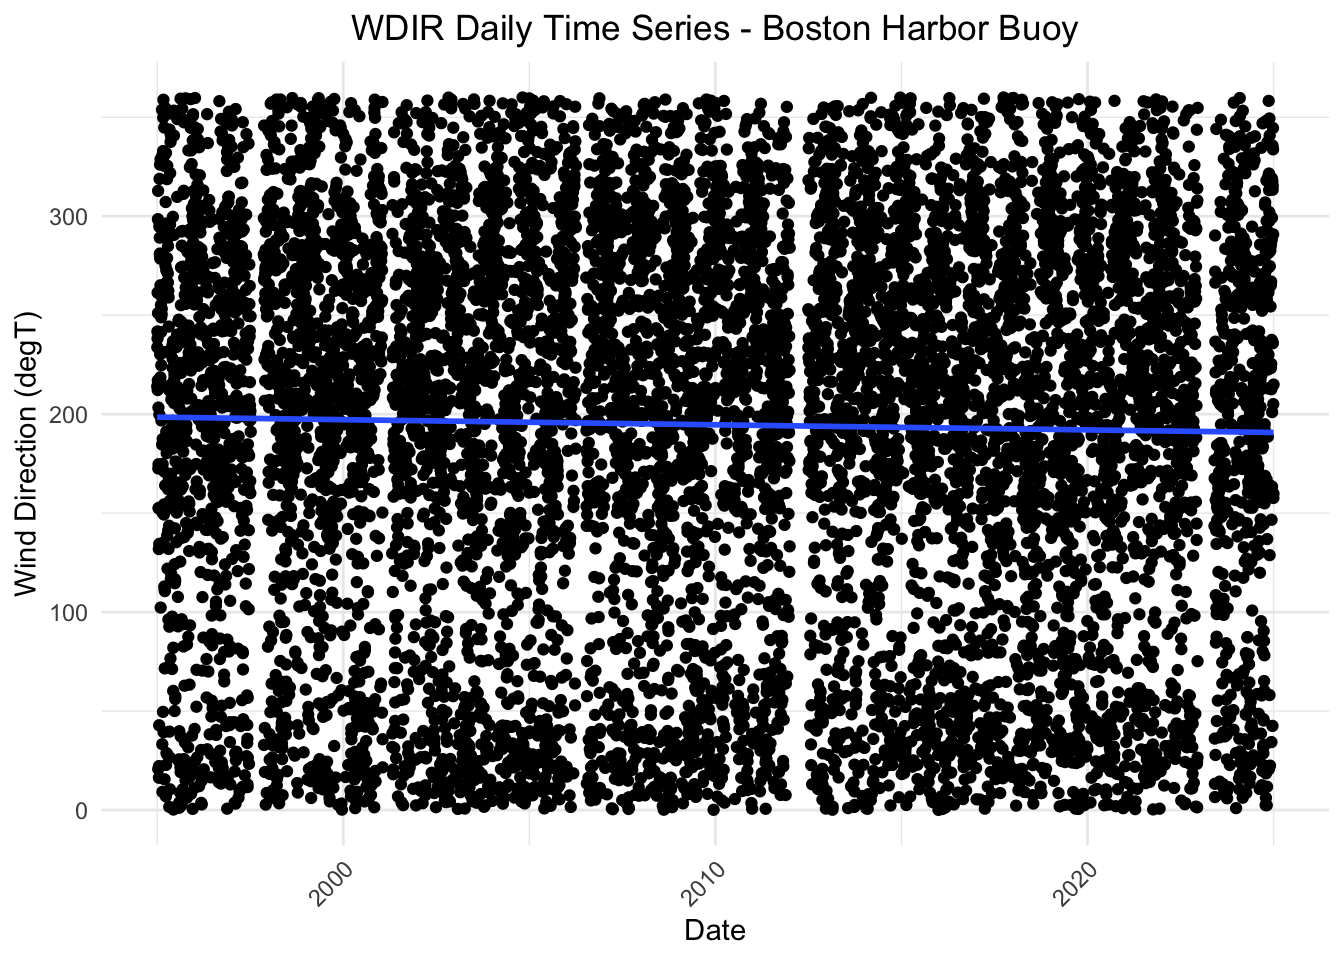
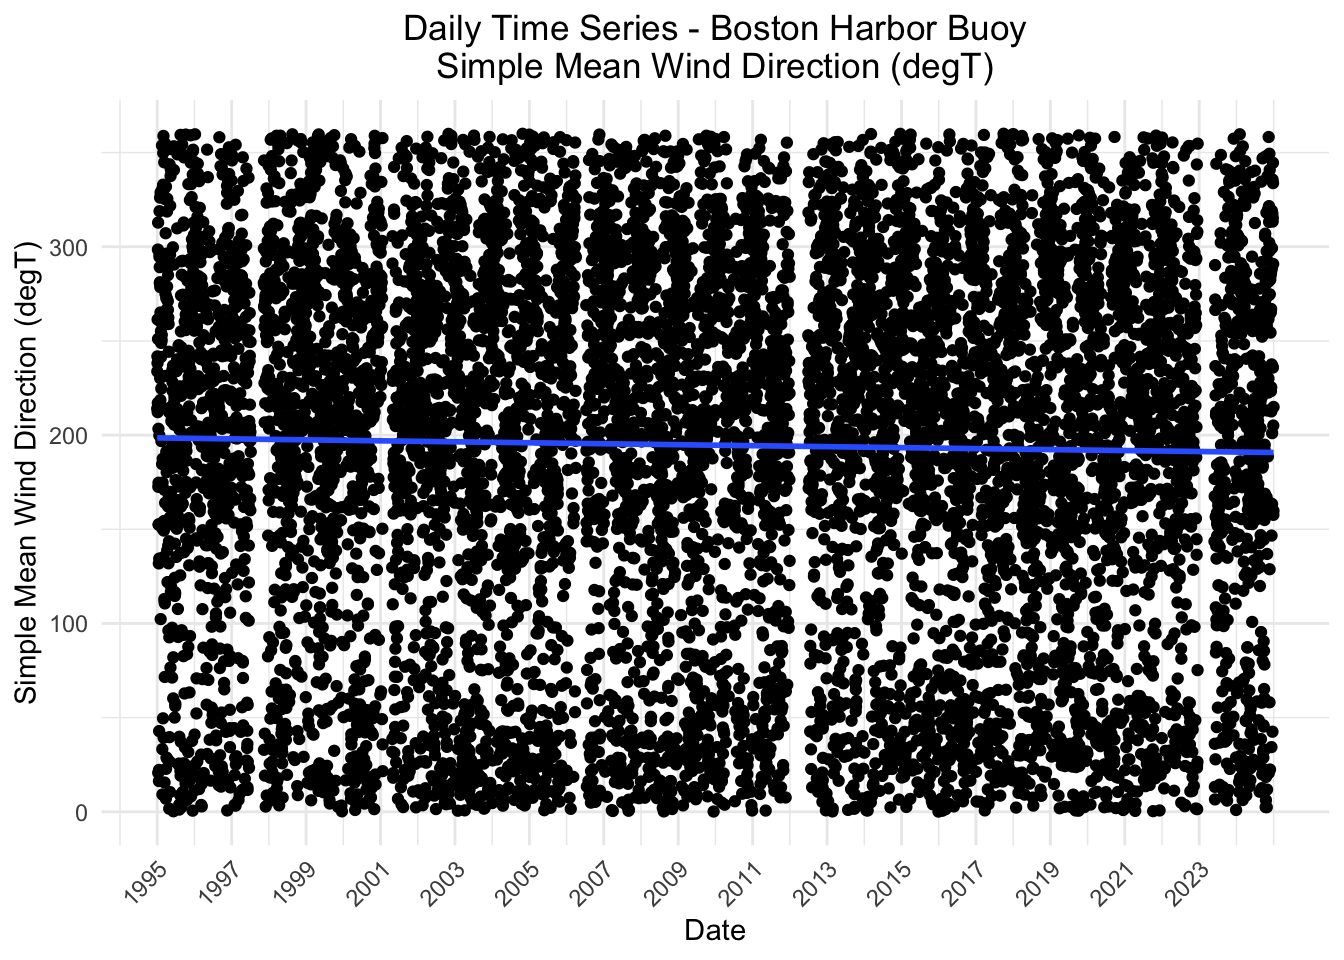
Update plots and plot simple (non-circular) mean wind direction for DKP comparison

diff --git a/quarto_docs/buoy_44013_NDBC.html b/quarto_docs/buoy_44013_NDBC.html
@@ -276,13 +276,13 @@ pre > code.sourceCode > span > a:first-child::before { text-decoration: underlin
 <span id="cb5-7"><a href="#cb5-7" aria-hidden="true" tabindex="-1"></a>                      <span class="st">"ATMP"</span>,<span class="st">"WTMP"</span>, <span class="st">"DEWP"</span>, <span class="st">"VIS"</span>,<span class="st">"TIDE"</span>)</span>
 <span id="cb5-8"><a href="#cb5-8" aria-hidden="true" tabindex="-1"></a>variables <span class="ot">&lt;-</span> <span class="fu">c</span>(angular_variables, scalar_variables)</span>
 <span id="cb5-9"><a href="#cb5-9" aria-hidden="true" tabindex="-1"></a>variables_meta <span class="ot">&lt;-</span> <span class="fu">list</span>(</span>
-<span id="cb5-10"><a href="#cb5-10" aria-hidden="true" tabindex="-1"></a>  <span class="at">WDIR =</span> <span class="st">"Wind Direction (degT)"</span>,</span>
+<span id="cb5-10"><a href="#cb5-10" aria-hidden="true" tabindex="-1"></a>  <span class="at">WDIR =</span> <span class="st">"Circular Mean Wind Direction (degT)"</span>,</span>
 <span id="cb5-11"><a href="#cb5-11" aria-hidden="true" tabindex="-1"></a>  <span class="at">WSPD =</span> <span class="st">"Wind speed (m/s)"</span>,</span>
 <span id="cb5-12"><a href="#cb5-12" aria-hidden="true" tabindex="-1"></a>  <span class="at">GST   =</span> <span class="st">"Peak 5 or 8 second gust speed (m/s)"</span>,</span>
 <span id="cb5-13"><a href="#cb5-13" aria-hidden="true" tabindex="-1"></a>  <span class="at">WVHT =</span> <span class="st">"Significant wave height (meters)"</span>,</span>
 <span id="cb5-14"><a href="#cb5-14" aria-hidden="true" tabindex="-1"></a>  <span class="at">DPD   =</span> <span class="st">"Dominant wave period (seconds)"</span>,</span>
 <span id="cb5-15"><a href="#cb5-15" aria-hidden="true" tabindex="-1"></a>  <span class="at">APD   =</span> <span class="st">"Average wave period (seconds)"</span>,</span>
-<span id="cb5-16"><a href="#cb5-16" aria-hidden="true" tabindex="-1"></a>  <span class="at">MWD   =</span> <span class="st">"Wave dir at dominant period (degT)"</span>,</span>
+<span id="cb5-16"><a href="#cb5-16" aria-hidden="true" tabindex="-1"></a>  <span class="at">MWD   =</span> <span class="st">"Wave direction at dominant period (degT)"</span>,</span>
 <span id="cb5-17"><a href="#cb5-17" aria-hidden="true" tabindex="-1"></a>  <span class="at">PRES =</span> <span class="st">"Sea level pressure (hPa)"</span>,</span>
 <span id="cb5-18"><a href="#cb5-18" aria-hidden="true" tabindex="-1"></a>  <span class="at">ATMP =</span> <span class="st">"Air temperature (degC)"</span>,</span>
 <span id="cb5-19"><a href="#cb5-19" aria-hidden="true" tabindex="-1"></a>  <span class="at">WTMP =</span> <span class="st">"Sea surface temperature (degC)"</span>,</span>
@@ -302,29 +302,40 @@ pre > code.sourceCode > span > a:first-child::before { text-decoration: underlin
 <span id="cb5-33"><a href="#cb5-33" aria-hidden="true" tabindex="-1"></a>               circular<span class="sc">::</span><span class="fu">circular</span>(.x, <span class="at">units =</span> <span class="st">"degrees"</span>, <span class="at">modulo =</span> <span class="st">"2pi"</span>),</span>
 <span id="cb5-34"><a href="#cb5-34" aria-hidden="true" tabindex="-1"></a>               <span class="at">na.rm =</span> <span class="cn">TRUE</span>))</span>
 <span id="cb5-35"><a href="#cb5-35" aria-hidden="true" tabindex="-1"></a>    ),</span>
-<span id="cb5-36"><a href="#cb5-36" aria-hidden="true" tabindex="-1"></a>    <span class="at">.groups =</span> <span class="st">"drop"</span></span>
-<span id="cb5-37"><a href="#cb5-37" aria-hidden="true" tabindex="-1"></a>  ) <span class="sc">|&gt;</span> </span>
-<span id="cb5-38"><a href="#cb5-38" aria-hidden="true" tabindex="-1"></a>  <span class="fu">mutate</span>(<span class="at">date =</span> <span class="fu">make_date</span>(YYYY, MM, DD)) <span class="sc">|&gt;</span> </span>
-<span id="cb5-39"><a href="#cb5-39" aria-hidden="true" tabindex="-1"></a>  <span class="fu">relocate</span>(WDIR, <span class="at">.before =</span> WSPD) <span class="sc">|&gt;</span> </span>
-<span id="cb5-40"><a href="#cb5-40" aria-hidden="true" tabindex="-1"></a>  <span class="fu">relocate</span>(MWD, <span class="at">.before =</span> ATMP) <span class="sc">|&gt;</span> </span>
-<span id="cb5-41"><a href="#cb5-41" aria-hidden="true" tabindex="-1"></a>  <span class="fu">relocate</span>(date, <span class="at">.before =</span> YYYY)</span>
-<span id="cb5-42"><a href="#cb5-42" aria-hidden="true" tabindex="-1"></a>  </span>
-<span id="cb5-43"><a href="#cb5-43" aria-hidden="true" tabindex="-1"></a></span>
-<span id="cb5-44"><a href="#cb5-44" aria-hidden="true" tabindex="-1"></a></span>
-<span id="cb5-45"><a href="#cb5-45" aria-hidden="true" tabindex="-1"></a><span class="co"># Plot daily mean values for each variable</span></span>
-<span id="cb5-46"><a href="#cb5-46" aria-hidden="true" tabindex="-1"></a><span class="cf">for</span> (var <span class="cf">in</span> variables) {</span>
-<span id="cb5-47"><a href="#cb5-47" aria-hidden="true" tabindex="-1"></a>  p <span class="ot">&lt;-</span> <span class="fu">ggplot</span>(buoy_data_daily,</span>
-<span id="cb5-48"><a href="#cb5-48" aria-hidden="true" tabindex="-1"></a>              <span class="fu">aes</span>(<span class="at">x =</span> date,</span>
-<span id="cb5-49"><a href="#cb5-49" aria-hidden="true" tabindex="-1"></a>                  <span class="at">y =</span> .data[[var]])) <span class="sc">+</span></span>
-<span id="cb5-50"><a href="#cb5-50" aria-hidden="true" tabindex="-1"></a>    <span class="fu">geom_point</span>() <span class="sc">+</span></span>
-<span id="cb5-51"><a href="#cb5-51" aria-hidden="true" tabindex="-1"></a>    <span class="fu">geom_smooth</span>(<span class="at">method =</span> <span class="st">"lm"</span>, <span class="at">se =</span> <span class="cn">FALSE</span>) <span class="sc">+</span></span>
-<span id="cb5-52"><a href="#cb5-52" aria-hidden="true" tabindex="-1"></a>    <span class="fu">labs</span>(<span class="at">x =</span> <span class="st">"Date"</span>,</span>
-<span id="cb5-53"><a href="#cb5-53" aria-hidden="true" tabindex="-1"></a>         <span class="at">y =</span> variables_meta[[var]],</span>
-<span id="cb5-54"><a href="#cb5-54" aria-hidden="true" tabindex="-1"></a>         <span class="at">title =</span> <span class="fu">paste</span>(var, <span class="st">"Daily Time Series - Boston Harbor Buoy"</span>)) <span class="sc">+</span></span>
-<span id="cb5-55"><a href="#cb5-55" aria-hidden="true" tabindex="-1"></a>    <span class="fu">scale_color_brewer</span>(<span class="at">palette =</span> <span class="st">"Set2"</span>)</span>
-<span id="cb5-56"><a href="#cb5-56" aria-hidden="true" tabindex="-1"></a>  </span>
-<span id="cb5-57"><a href="#cb5-57" aria-hidden="true" tabindex="-1"></a>  <span class="fu">print</span>(p)</span>
-<span id="cb5-58"><a href="#cb5-58" aria-hidden="true" tabindex="-1"></a>}</span></code><button title="Copy to Clipboard" class="code-copy-button"><i class="bi"></i></button></pre></div>
+<span id="cb5-36"><a href="#cb5-36" aria-hidden="true" tabindex="-1"></a>    <span class="co"># also calculate a simple, non-circular mean for wind direction, for comparison to DKP analysis</span></span>
+<span id="cb5-37"><a href="#cb5-37" aria-hidden="true" tabindex="-1"></a>    <span class="at">WDIR_simple =</span> <span class="fu">mean</span>(WDIR),</span>
+<span id="cb5-38"><a href="#cb5-38" aria-hidden="true" tabindex="-1"></a>    <span class="at">.groups =</span> <span class="st">"drop"</span></span>
+<span id="cb5-39"><a href="#cb5-39" aria-hidden="true" tabindex="-1"></a>  ) <span class="sc">|&gt;</span> </span>
+<span id="cb5-40"><a href="#cb5-40" aria-hidden="true" tabindex="-1"></a>  <span class="fu">mutate</span>(<span class="at">date =</span> <span class="fu">make_date</span>(YYYY, MM, DD)) <span class="sc">|&gt;</span> </span>
+<span id="cb5-41"><a href="#cb5-41" aria-hidden="true" tabindex="-1"></a>  <span class="fu">relocate</span>(WDIR, <span class="at">.before =</span> WSPD) <span class="sc">|&gt;</span> </span>
+<span id="cb5-42"><a href="#cb5-42" aria-hidden="true" tabindex="-1"></a>  <span class="fu">relocate</span>(WDIR_simple, <span class="at">.after =</span> WDIR) <span class="sc">|&gt;</span> </span>
+<span id="cb5-43"><a href="#cb5-43" aria-hidden="true" tabindex="-1"></a>  <span class="fu">relocate</span>(MWD, <span class="at">.before =</span> ATMP) <span class="sc">|&gt;</span> </span>
+<span id="cb5-44"><a href="#cb5-44" aria-hidden="true" tabindex="-1"></a>  <span class="fu">relocate</span>(date, <span class="at">.before =</span> YYYY)</span>
+<span id="cb5-45"><a href="#cb5-45" aria-hidden="true" tabindex="-1"></a>  </span>
+<span id="cb5-46"><a href="#cb5-46" aria-hidden="true" tabindex="-1"></a><span class="co"># Update variables</span></span>
+<span id="cb5-47"><a href="#cb5-47" aria-hidden="true" tabindex="-1"></a>  scalar_variables <span class="ot">&lt;-</span> <span class="fu">c</span>(<span class="st">"WDIR_simple"</span>, scalar_variables)</span>
+<span id="cb5-48"><a href="#cb5-48" aria-hidden="true" tabindex="-1"></a>  variables <span class="ot">&lt;-</span> <span class="fu">c</span>(<span class="st">"WDIR_simple"</span>, variables)</span>
+<span id="cb5-49"><a href="#cb5-49" aria-hidden="true" tabindex="-1"></a>  variables_meta <span class="ot">&lt;-</span> <span class="fu">c</span>(variables_meta, <span class="at">WDIR_simple =</span> <span class="st">"Simple Mean Wind Direction (degT)"</span>)</span>
+<span id="cb5-50"><a href="#cb5-50" aria-hidden="true" tabindex="-1"></a>  </span>
+<span id="cb5-51"><a href="#cb5-51" aria-hidden="true" tabindex="-1"></a></span>
+<span id="cb5-52"><a href="#cb5-52" aria-hidden="true" tabindex="-1"></a><span class="co"># Plot daily mean values for each variable</span></span>
+<span id="cb5-53"><a href="#cb5-53" aria-hidden="true" tabindex="-1"></a><span class="cf">for</span> (var <span class="cf">in</span> variables) {</span>
+<span id="cb5-54"><a href="#cb5-54" aria-hidden="true" tabindex="-1"></a>  p <span class="ot">&lt;-</span> <span class="fu">ggplot</span>(buoy_data_daily,</span>
+<span id="cb5-55"><a href="#cb5-55" aria-hidden="true" tabindex="-1"></a>              <span class="fu">aes</span>(<span class="at">x =</span> date,</span>
+<span id="cb5-56"><a href="#cb5-56" aria-hidden="true" tabindex="-1"></a>                  <span class="at">y =</span> .data[[var]])) <span class="sc">+</span></span>
+<span id="cb5-57"><a href="#cb5-57" aria-hidden="true" tabindex="-1"></a>    <span class="fu">geom_point</span>() <span class="sc">+</span></span>
+<span id="cb5-58"><a href="#cb5-58" aria-hidden="true" tabindex="-1"></a>    <span class="fu">geom_smooth</span>(<span class="at">method =</span> <span class="st">"lm"</span>, <span class="at">se =</span> <span class="cn">FALSE</span>) <span class="sc">+</span></span>
+<span id="cb5-59"><a href="#cb5-59" aria-hidden="true" tabindex="-1"></a>    <span class="fu">labs</span>(<span class="at">x =</span> <span class="st">"Date"</span>,</span>
+<span id="cb5-60"><a href="#cb5-60" aria-hidden="true" tabindex="-1"></a>         <span class="at">y =</span> variables_meta[[var]],</span>
+<span id="cb5-61"><a href="#cb5-61" aria-hidden="true" tabindex="-1"></a>         <span class="at">title =</span> <span class="fu">paste</span>(<span class="st">"Daily Time Series - Boston Harbor Buoy"</span>,</span>
+<span id="cb5-62"><a href="#cb5-62" aria-hidden="true" tabindex="-1"></a>                       variables_meta[[var]], <span class="at">sep =</span> <span class="st">"</span><span class="sc">\n</span><span class="st">"</span>)) <span class="sc">+</span></span>
+<span id="cb5-63"><a href="#cb5-63" aria-hidden="true" tabindex="-1"></a>    <span class="fu">scale_color_brewer</span>(<span class="at">palette =</span> <span class="st">"Set2"</span>) <span class="sc">+</span></span>
+<span id="cb5-64"><a href="#cb5-64" aria-hidden="true" tabindex="-1"></a>    <span class="fu">scale_x_date</span>(</span>
+<span id="cb5-65"><a href="#cb5-65" aria-hidden="true" tabindex="-1"></a>      <span class="at">breaks =</span> <span class="fu">seq</span>(<span class="fu">min</span>(buoy_data_daily<span class="sc">$</span>date), <span class="fu">max</span>(buoy_data_daily<span class="sc">$</span>date), <span class="at">by =</span> <span class="st">"2 years"</span>),</span>
+<span id="cb5-66"><a href="#cb5-66" aria-hidden="true" tabindex="-1"></a>      <span class="at">date_labels =</span> <span class="st">"%Y"</span>)</span>
+<span id="cb5-67"><a href="#cb5-67" aria-hidden="true" tabindex="-1"></a>  </span>
+<span id="cb5-68"><a href="#cb5-68" aria-hidden="true" tabindex="-1"></a>  <span class="fu">print</span>(p)</span>
+<span id="cb5-69"><a href="#cb5-69" aria-hidden="true" tabindex="-1"></a>}</span></code><button title="Copy to Clipboard" class="code-copy-button"><i class="bi"></i></button></pre></div>
 </details>
 <div class="cell-output-display">
 <div>
@@ -417,6 +428,13 @@ pre > code.sourceCode > span > a:first-child::before { text-decoration: underlin
 </figure>
 </div>
 </div>
+<div class="cell-output-display">
+<div>
+<figure class="figure">
+<p><img src="buoy_44013_NDBC_files/figure-html/Calculate%20&amp;%20Plot%20Daily%20and%20Annual%20Means-14.png" class="img-fluid figure-img" width="672"></p>
+</figure>
+</div>
+</div>
 <details open="" class="code-fold">
 <summary>Code</summary>
 <div class="sourceCode cell-code" id="cb6"><pre class="sourceCode r code-with-copy"><code class="sourceCode r"><span id="cb6-1"><a href="#cb6-1" aria-hidden="true" tabindex="-1"></a><span class="co"># Calculate annual mean for all variables</span></span>
@@ -427,7 +445,7 @@ pre > code.sourceCode > span > a:first-child::before { text-decoration: underlin
 <span id="cb6-6"><a href="#cb6-6" aria-hidden="true" tabindex="-1"></a><span class="co">#   summarize(count_obs = n())</span></span>
 <span id="cb6-7"><a href="#cb6-7" aria-hidden="true" tabindex="-1"></a><span class="co"># 1997 and 2012 are missing large time periods of data</span></span>
 <span id="cb6-8"><a href="#cb6-8" aria-hidden="true" tabindex="-1"></a></span>
-<span id="cb6-9"><a href="#cb6-9" aria-hidden="true" tabindex="-1"></a></span>
+<span id="cb6-9"><a href="#cb6-9" aria-hidden="true" tabindex="-1"></a>  </span>
 <span id="cb6-10"><a href="#cb6-10" aria-hidden="true" tabindex="-1"></a>buoy_data_annual <span class="ot">&lt;-</span> buoy_data_daily <span class="sc">|&gt;</span> </span>
 <span id="cb6-11"><a href="#cb6-11" aria-hidden="true" tabindex="-1"></a>  <span class="fu">group_by</span>(YYYY) <span class="sc">|&gt;</span> </span>
 <span id="cb6-12"><a href="#cb6-12" aria-hidden="true" tabindex="-1"></a>  <span class="co"># 1997 and 2012 are missing large time periods of data. Excluding from annual summaries  </span></span>
@@ -454,19 +472,15 @@ pre > code.sourceCode > span > a:first-child::before { text-decoration: underlin
 <span id="cb6-33"><a href="#cb6-33" aria-hidden="true" tabindex="-1"></a>    <span class="fu">geom_smooth</span>(<span class="at">method =</span> <span class="st">"lm"</span>, <span class="at">se =</span> <span class="cn">FALSE</span>) <span class="sc">+</span></span>
 <span id="cb6-34"><a href="#cb6-34" aria-hidden="true" tabindex="-1"></a>    <span class="fu">labs</span>(<span class="at">x =</span> <span class="st">"Date"</span>,</span>
 <span id="cb6-35"><a href="#cb6-35" aria-hidden="true" tabindex="-1"></a>         <span class="at">y =</span> variables_meta[[var]],</span>
-<span id="cb6-36"><a href="#cb6-36" aria-hidden="true" tabindex="-1"></a>         <span class="at">title =</span> <span class="fu">paste</span>(var, <span class="st">"Annual Time Series - Boston Harbor Buoy"</span>)) <span class="sc">+</span></span>
-<span id="cb6-37"><a href="#cb6-37" aria-hidden="true" tabindex="-1"></a>    <span class="fu">scale_color_brewer</span>(<span class="at">palette =</span> <span class="st">"Set2"</span>)</span>
-<span id="cb6-38"><a href="#cb6-38" aria-hidden="true" tabindex="-1"></a>  </span>
-<span id="cb6-39"><a href="#cb6-39" aria-hidden="true" tabindex="-1"></a>  <span class="fu">print</span>(p)</span>
-<span id="cb6-40"><a href="#cb6-40" aria-hidden="true" tabindex="-1"></a>}</span></code><button title="Copy to Clipboard" class="code-copy-button"><i class="bi"></i></button></pre></div>
+<span id="cb6-36"><a href="#cb6-36" aria-hidden="true" tabindex="-1"></a>         <span class="at">title =</span> <span class="fu">paste</span>(<span class="st">"Annual Time Series - Boston Harbor Buoy"</span>,</span>
+<span id="cb6-37"><a href="#cb6-37" aria-hidden="true" tabindex="-1"></a>                       variables_meta[[var]], <span class="at">sep =</span> <span class="st">"</span><span class="sc">\n</span><span class="st">"</span>)) <span class="sc">+</span></span>
+<span id="cb6-38"><a href="#cb6-38" aria-hidden="true" tabindex="-1"></a>    <span class="fu">scale_color_brewer</span>(<span class="at">palette =</span> <span class="st">"Set2"</span>) <span class="sc">+</span></span>
+<span id="cb6-39"><a href="#cb6-39" aria-hidden="true" tabindex="-1"></a>    <span class="fu">scale_x_continuous</span>(</span>
+<span id="cb6-40"><a href="#cb6-40" aria-hidden="true" tabindex="-1"></a>      <span class="at">breaks =</span> <span class="fu">seq</span>(<span class="fu">min</span>(buoy_data_annual<span class="sc">$</span>YYYY), <span class="fu">max</span>(buoy_data_annual<span class="sc">$</span>YYYY), <span class="at">by =</span> <span class="dv">2</span>))</span>
+<span id="cb6-41"><a href="#cb6-41" aria-hidden="true" tabindex="-1"></a>  </span>
+<span id="cb6-42"><a href="#cb6-42" aria-hidden="true" tabindex="-1"></a>  <span class="fu">print</span>(p)</span>
+<span id="cb6-43"><a href="#cb6-43" aria-hidden="true" tabindex="-1"></a>}</span></code><button title="Copy to Clipboard" class="code-copy-button"><i class="bi"></i></button></pre></div>
 </details>
-<div class="cell-output-display">
-<div>
-<figure class="figure">
-<p><img src="buoy_44013_NDBC_files/figure-html/Calculate%20&amp;%20Plot%20Daily%20and%20Annual%20Means-14.png" class="img-fluid figure-img" width="672"></p>
-</figure>
-</div>
-</div>
 <div class="cell-output-display">
 <div>
 <figure class="figure">
@@ -548,6 +562,48 @@ pre > code.sourceCode > span > a:first-child::before { text-decoration: underlin
 <div>
 <figure class="figure">
 <p><img src="buoy_44013_NDBC_files/figure-html/Calculate%20&amp;%20Plot%20Daily%20and%20Annual%20Means-26.png" class="img-fluid figure-img" width="672"></p>
+</figure>
+</div>
+</div>
+<div class="cell-output-display">
+<div>
+<figure class="figure">
+<p><img src="buoy_44013_NDBC_files/figure-html/Calculate%20&amp;%20Plot%20Daily%20and%20Annual%20Means-27.png" class="img-fluid figure-img" width="672"></p>
+</figure>
+</div>
+</div>
+<div class="cell-output-display">
+<div>
+<figure class="figure">
+<p><img src="buoy_44013_NDBC_files/figure-html/Calculate%20&amp;%20Plot%20Daily%20and%20Annual%20Means-28.png" class="img-fluid figure-img" width="672"></p>
+</figure>
+</div>
+</div>
+<details open="" class="code-fold">
+<summary>Code</summary>
+<div class="sourceCode cell-code" id="cb7"><pre class="sourceCode r code-with-copy"><code class="sourceCode r"><span id="cb7-1"><a href="#cb7-1" aria-hidden="true" tabindex="-1"></a><span class="co"># Plot Simple Mean Wind Direction 2003 - 2014 for comparison with DKP</span></span>
+<span id="cb7-2"><a href="#cb7-2" aria-hidden="true" tabindex="-1"></a><span class="cf">for</span> (var <span class="cf">in</span> <span class="fu">list</span>(<span class="st">"WDIR_simple"</span>)) {</span>
+<span id="cb7-3"><a href="#cb7-3" aria-hidden="true" tabindex="-1"></a>  p <span class="ot">&lt;-</span> <span class="fu">ggplot</span>(<span class="fu">filter</span>(buoy_data_annual, YYYY <span class="sc">%in%</span> <span class="fu">c</span>(<span class="dv">2003</span><span class="sc">:</span><span class="dv">2014</span>)),</span>
+<span id="cb7-4"><a href="#cb7-4" aria-hidden="true" tabindex="-1"></a>              <span class="fu">aes</span>(<span class="at">x =</span> YYYY,</span>
+<span id="cb7-5"><a href="#cb7-5" aria-hidden="true" tabindex="-1"></a>                  <span class="at">y =</span> .data[[var]])) <span class="sc">+</span></span>
+<span id="cb7-6"><a href="#cb7-6" aria-hidden="true" tabindex="-1"></a>    <span class="fu">geom_point</span>(<span class="at">color =</span> <span class="st">"orange"</span>) <span class="sc">+</span></span>
+<span id="cb7-7"><a href="#cb7-7" aria-hidden="true" tabindex="-1"></a>    <span class="fu">geom_line</span>(<span class="at">color =</span> <span class="st">"orange"</span>) <span class="sc">+</span></span>
+<span id="cb7-8"><a href="#cb7-8" aria-hidden="true" tabindex="-1"></a>    <span class="fu">geom_smooth</span>(<span class="at">method =</span> <span class="st">"lm"</span>, <span class="at">se =</span> <span class="cn">FALSE</span>) <span class="sc">+</span></span>
+<span id="cb7-9"><a href="#cb7-9" aria-hidden="true" tabindex="-1"></a>    <span class="fu">labs</span>(<span class="at">x =</span> <span class="st">"Date"</span>,</span>
+<span id="cb7-10"><a href="#cb7-10" aria-hidden="true" tabindex="-1"></a>         <span class="at">y =</span> variables_meta[[var]],</span>
+<span id="cb7-11"><a href="#cb7-11" aria-hidden="true" tabindex="-1"></a>         <span class="at">title =</span> <span class="fu">paste</span>(<span class="st">"Annual Time Series - Boston Harbor Buoy"</span>,</span>
+<span id="cb7-12"><a href="#cb7-12" aria-hidden="true" tabindex="-1"></a>                       variables_meta[[var]], <span class="at">sep =</span> <span class="st">"</span><span class="sc">\n</span><span class="st">"</span>)) <span class="sc">+</span></span>
+<span id="cb7-13"><a href="#cb7-13" aria-hidden="true" tabindex="-1"></a>    <span class="fu">scale_color_brewer</span>(<span class="at">palette =</span> <span class="st">"Set2"</span>) <span class="sc">+</span></span>
+<span id="cb7-14"><a href="#cb7-14" aria-hidden="true" tabindex="-1"></a>    <span class="fu">scale_x_continuous</span>(</span>
+<span id="cb7-15"><a href="#cb7-15" aria-hidden="true" tabindex="-1"></a>      <span class="at">breaks =</span> <span class="fu">seq</span>(<span class="fu">min</span>(buoy_data_annual<span class="sc">$</span>YYYY), <span class="fu">max</span>(buoy_data_annual<span class="sc">$</span>YYYY), <span class="at">by =</span> <span class="dv">2</span>))</span>
+<span id="cb7-16"><a href="#cb7-16" aria-hidden="true" tabindex="-1"></a>  </span>
+<span id="cb7-17"><a href="#cb7-17" aria-hidden="true" tabindex="-1"></a>  <span class="fu">print</span>(p)</span>
+<span id="cb7-18"><a href="#cb7-18" aria-hidden="true" tabindex="-1"></a>}</span></code><button title="Copy to Clipboard" class="code-copy-button"><i class="bi"></i></button></pre></div>
+</details>
+<div class="cell-output-display">
+<div>
+<figure class="figure">
+<p><img src="buoy_44013_NDBC_files/figure-html/Calculate%20&amp;%20Plot%20Daily%20and%20Annual%20Means-29.png" class="img-fluid figure-img" width="672"></p>
 </figure>
 </div>
 </div>
